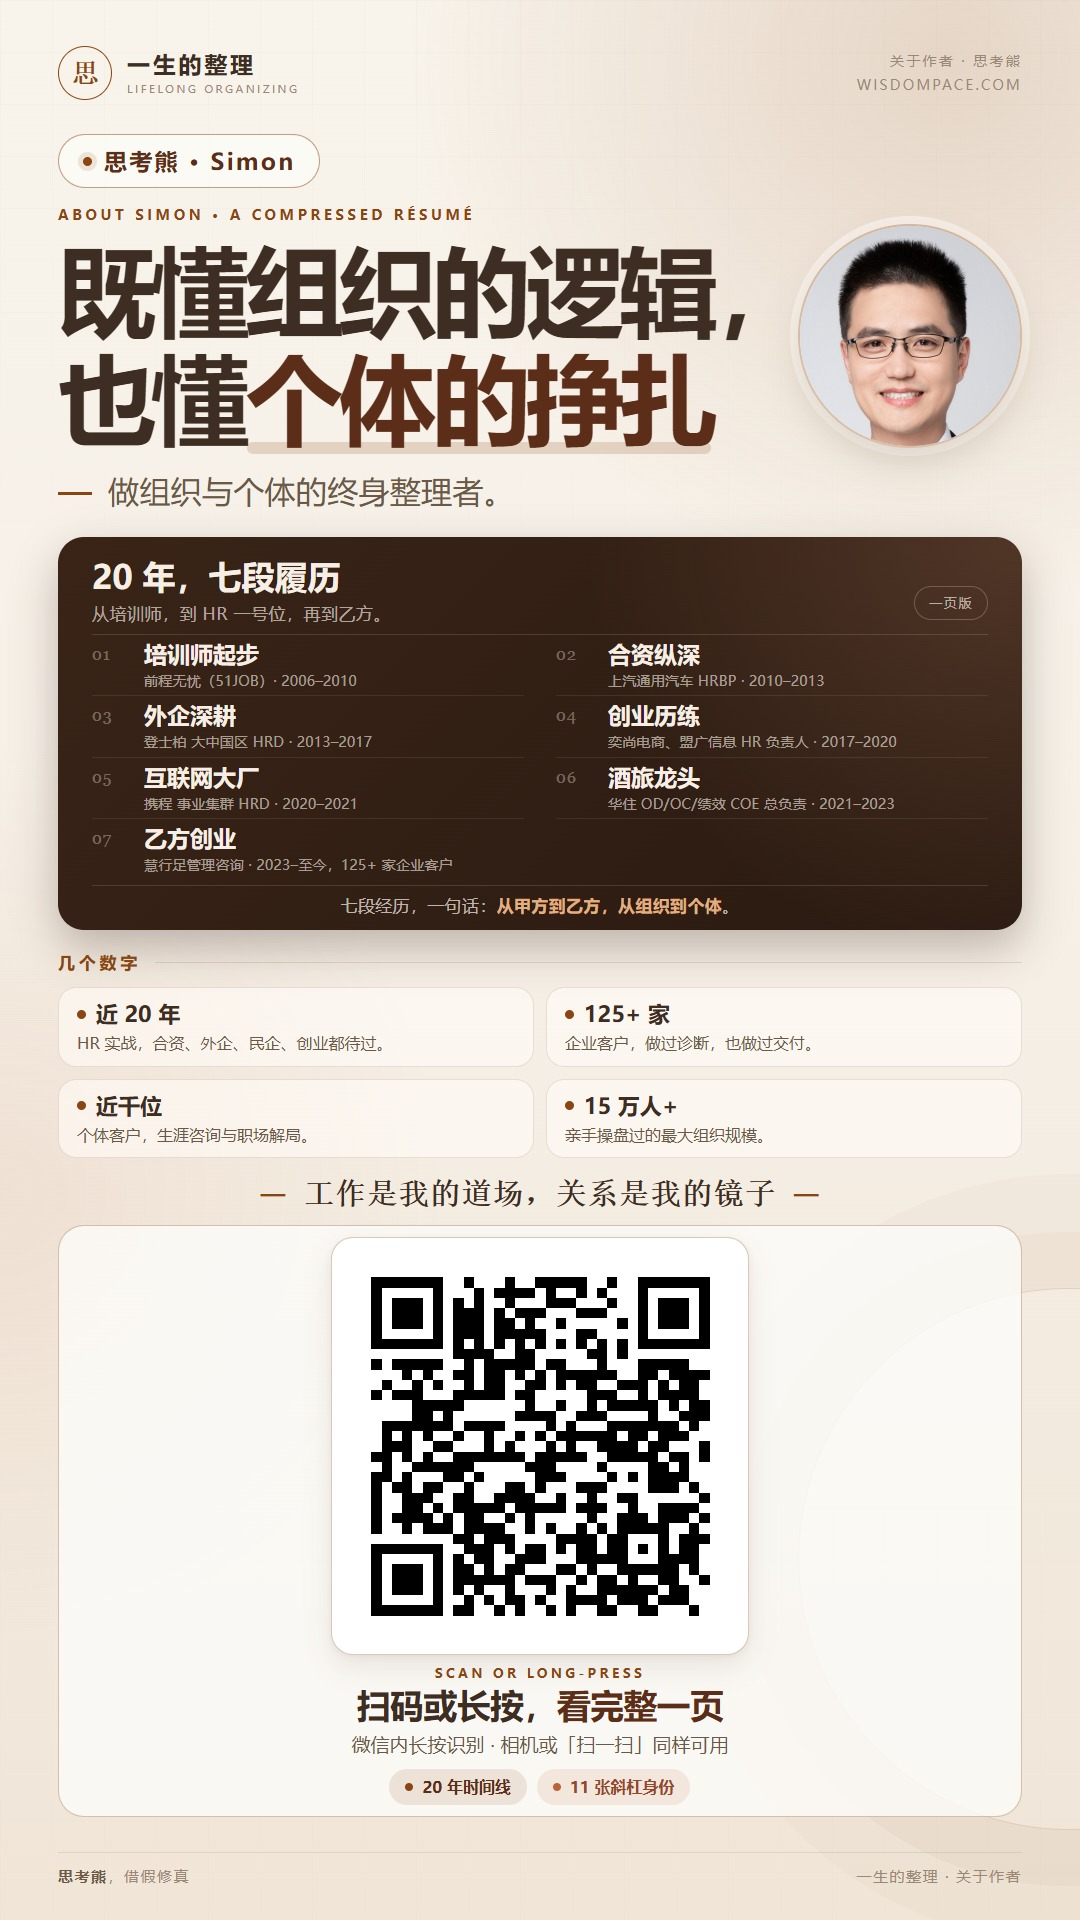
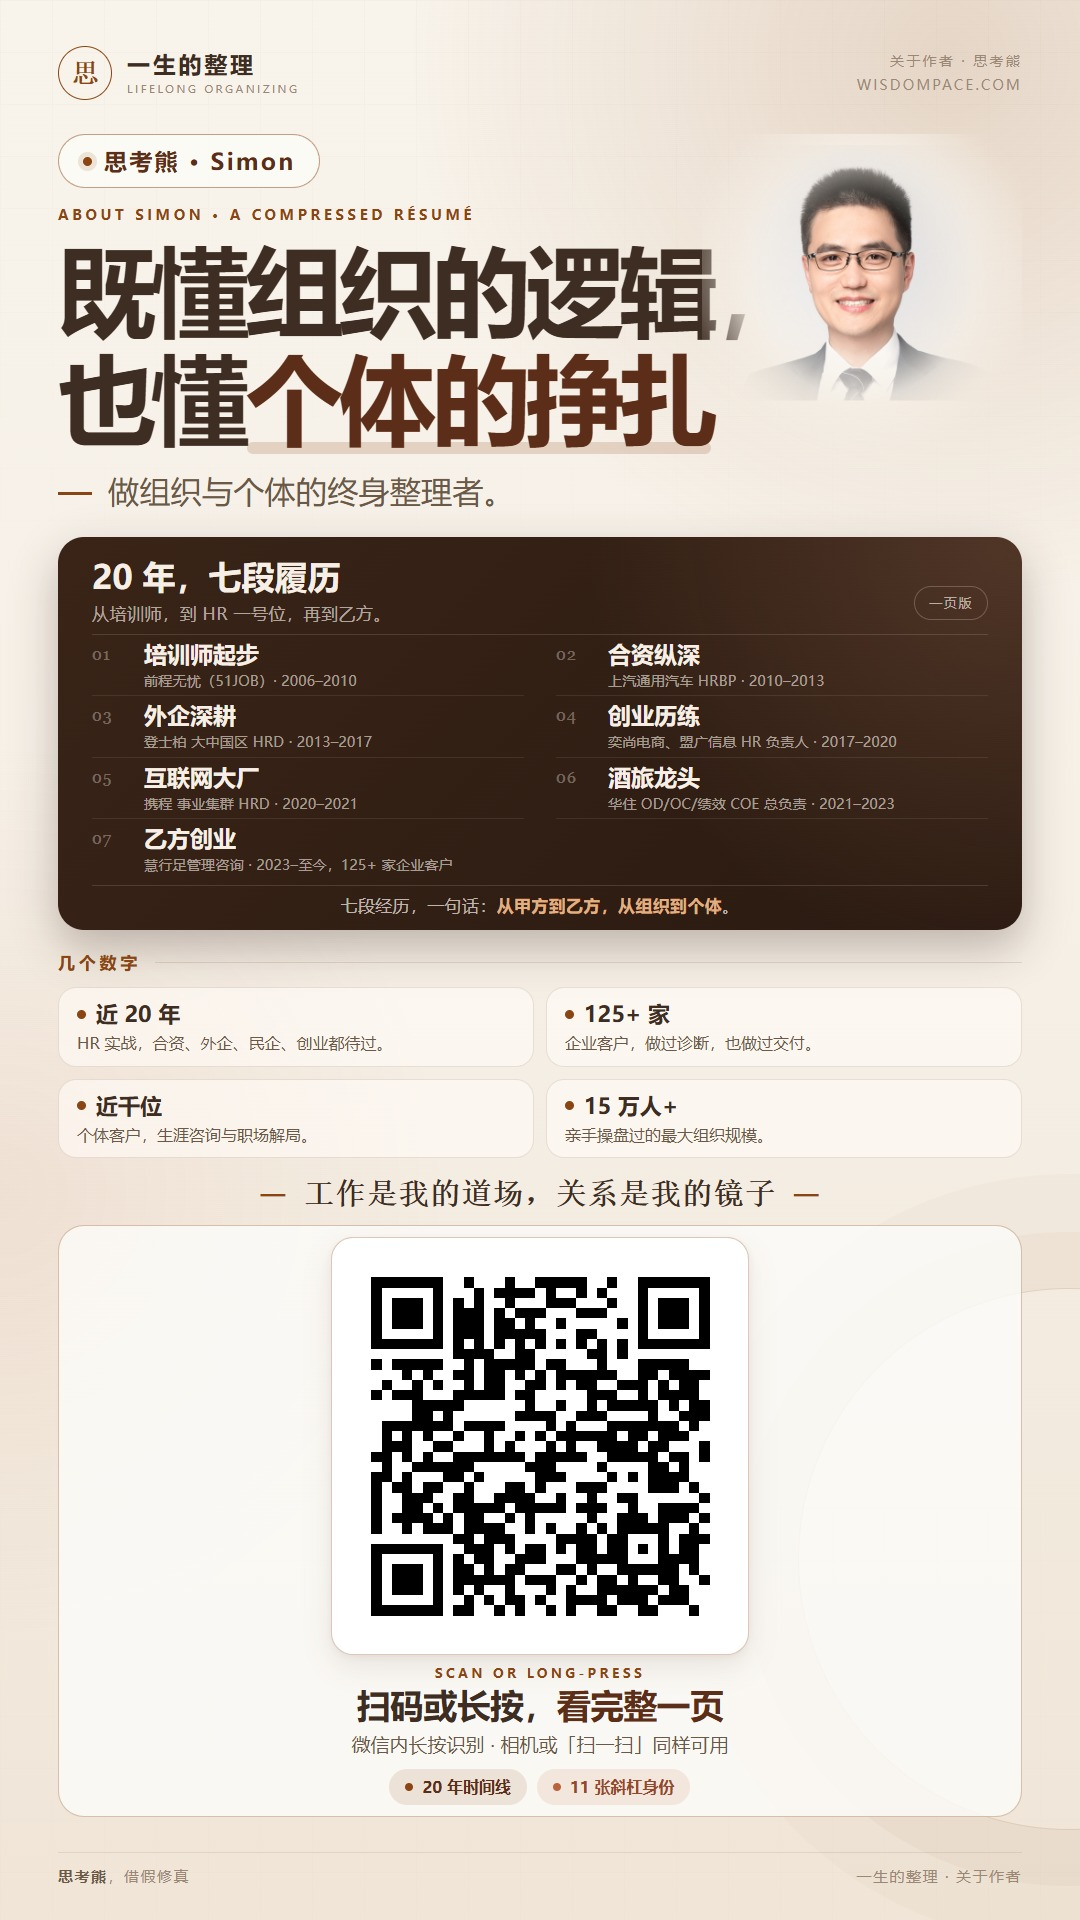
posters: 人像改柔边融入纸底，含肩不切头，去掉圆形硬边框

Changed region(s): [[0.7333, 0.0625, 0.9472, 0.25], [0.6417, 0.125, 0.7028, 0.1875]]

diff --git a/posters/about-simon-poster.html b/posters/about-simon-poster.html
@@ -219,25 +219,18 @@
       font-size: 13px;
       letter-spacing: 0.12em;
     }
-    /* 主视觉右侧的圆头像：与两行标题同高，右对齐页边 */
+    /* 主视觉右侧人像：柔边融入纸底，无边框无阴影，含肩不切头 */
     .hero-avatar {
       position: absolute;
-      top: 124px;
+      top: 34px;
       right: 0;
-      width: 224px;
-      height: 224px;
-      overflow: hidden;
-      border: 2px solid rgba(139, 69, 19, 0.26);
-      border-radius: 50%;
-      box-shadow:
-        0 16px 36px rgba(74, 48, 32, 0.16),
-        0 0 0 8px rgba(255, 251, 246, 0.55);
+      width: 320px;
+      height: 348px;
     }
     .hero-avatar img {
       display: block;
       width: 100%;
       height: 100%;
-      object-fit: cover;
     }
     .stages {
       display: grid;
@@ -491,7 +484,7 @@
       <h1>既懂组织的逻辑，<br />也懂<span class="accent">个体的挣扎</span></h1>
       <p class="slogan">做组织与个体的终身整理者。</p>
       <div class="hero-avatar">
-        <img src="avatar-simon.png" alt="思考熊 Simon" />
+        <img src="avatar-simon-soft.png" alt="思考熊 Simon" />
       </div>
     </section>
 
